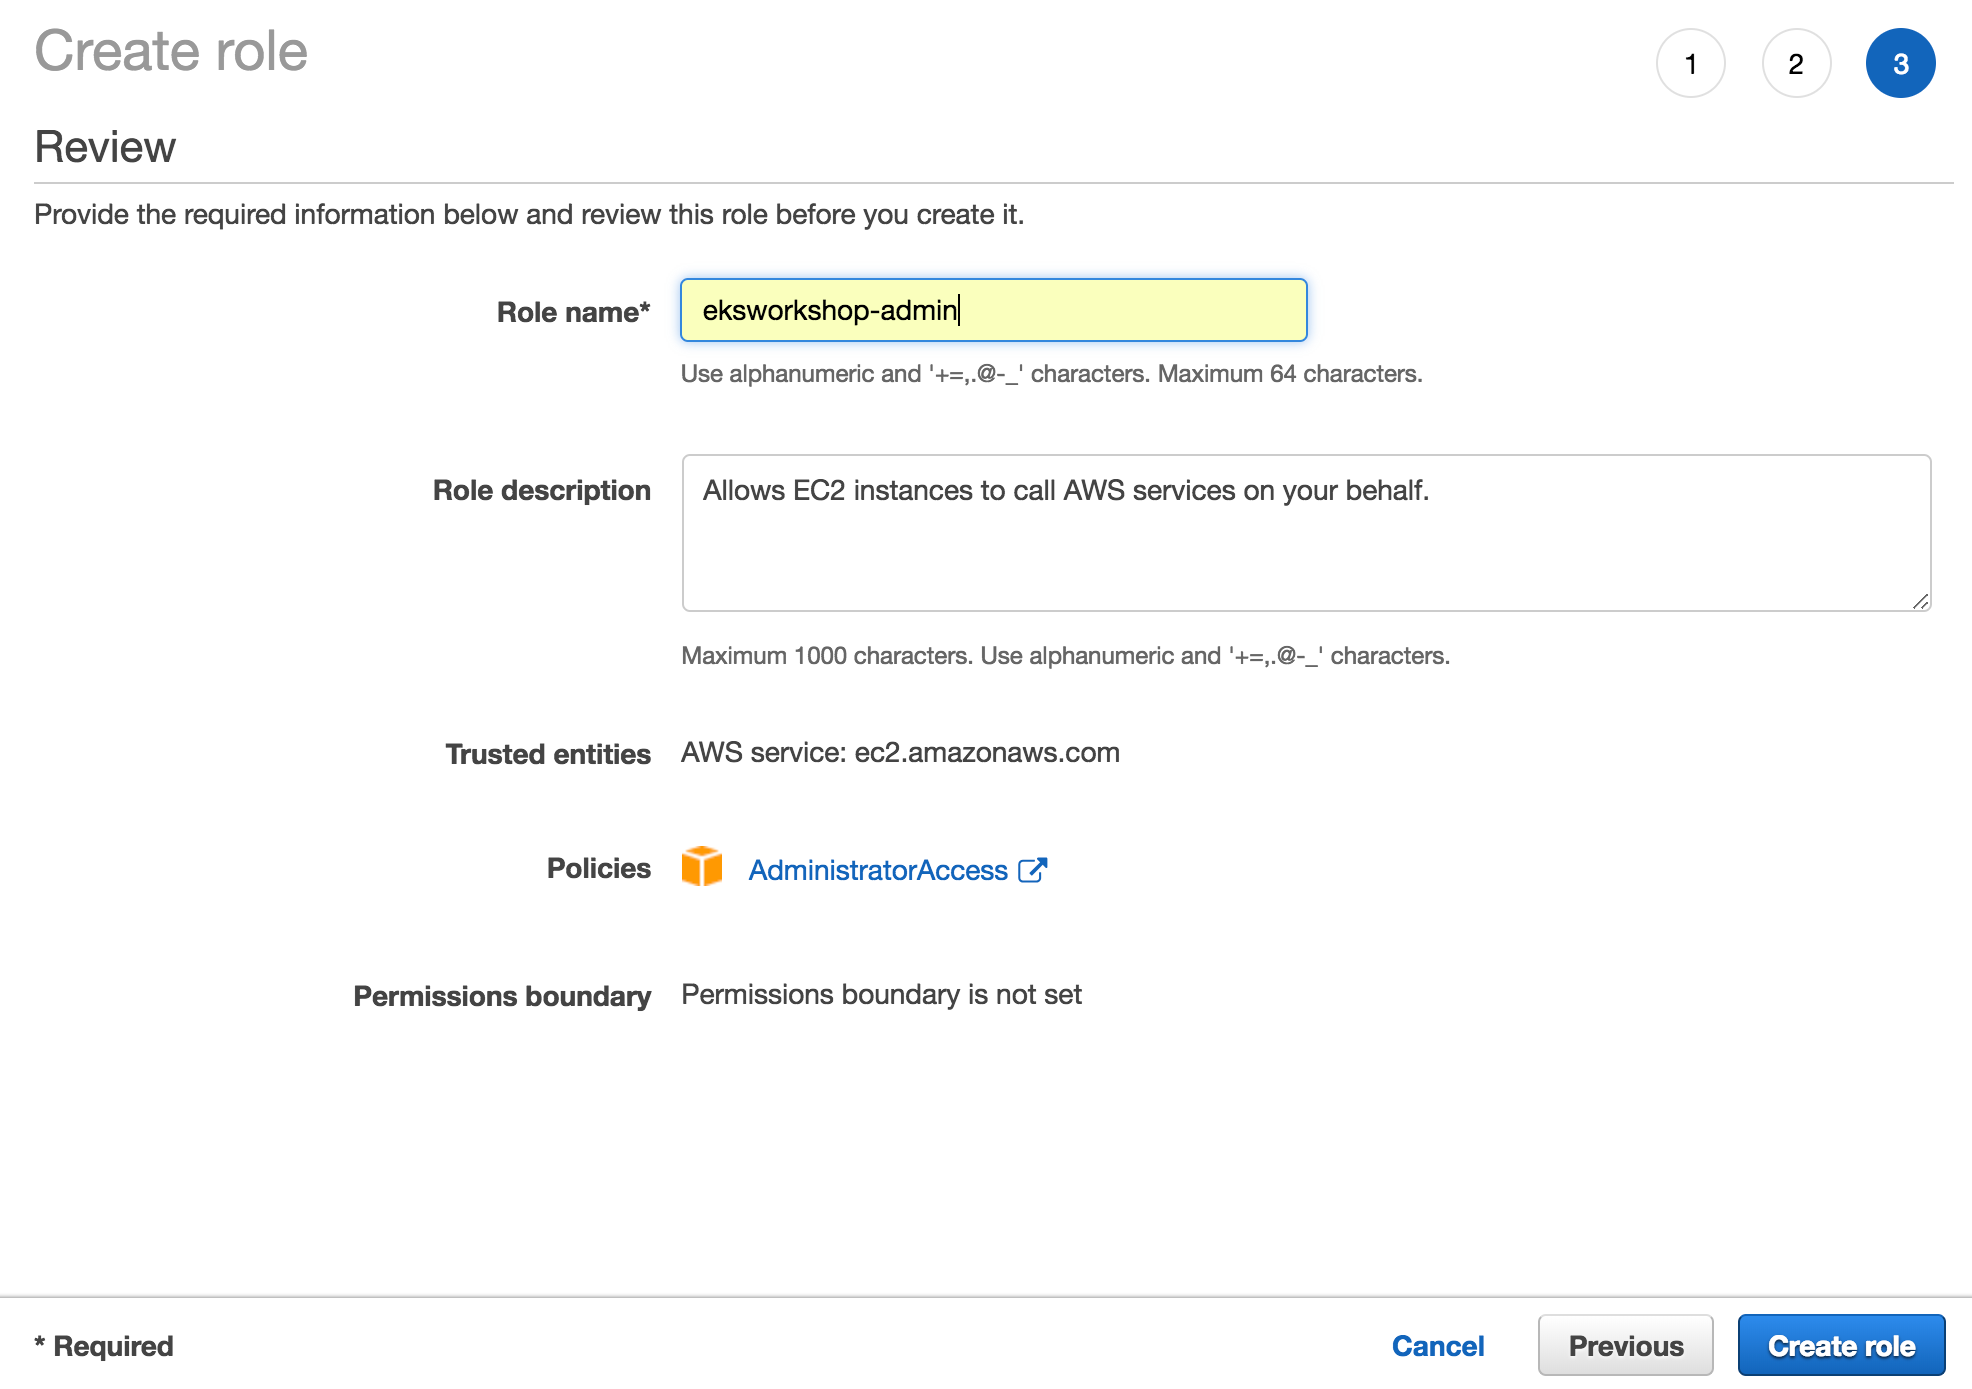
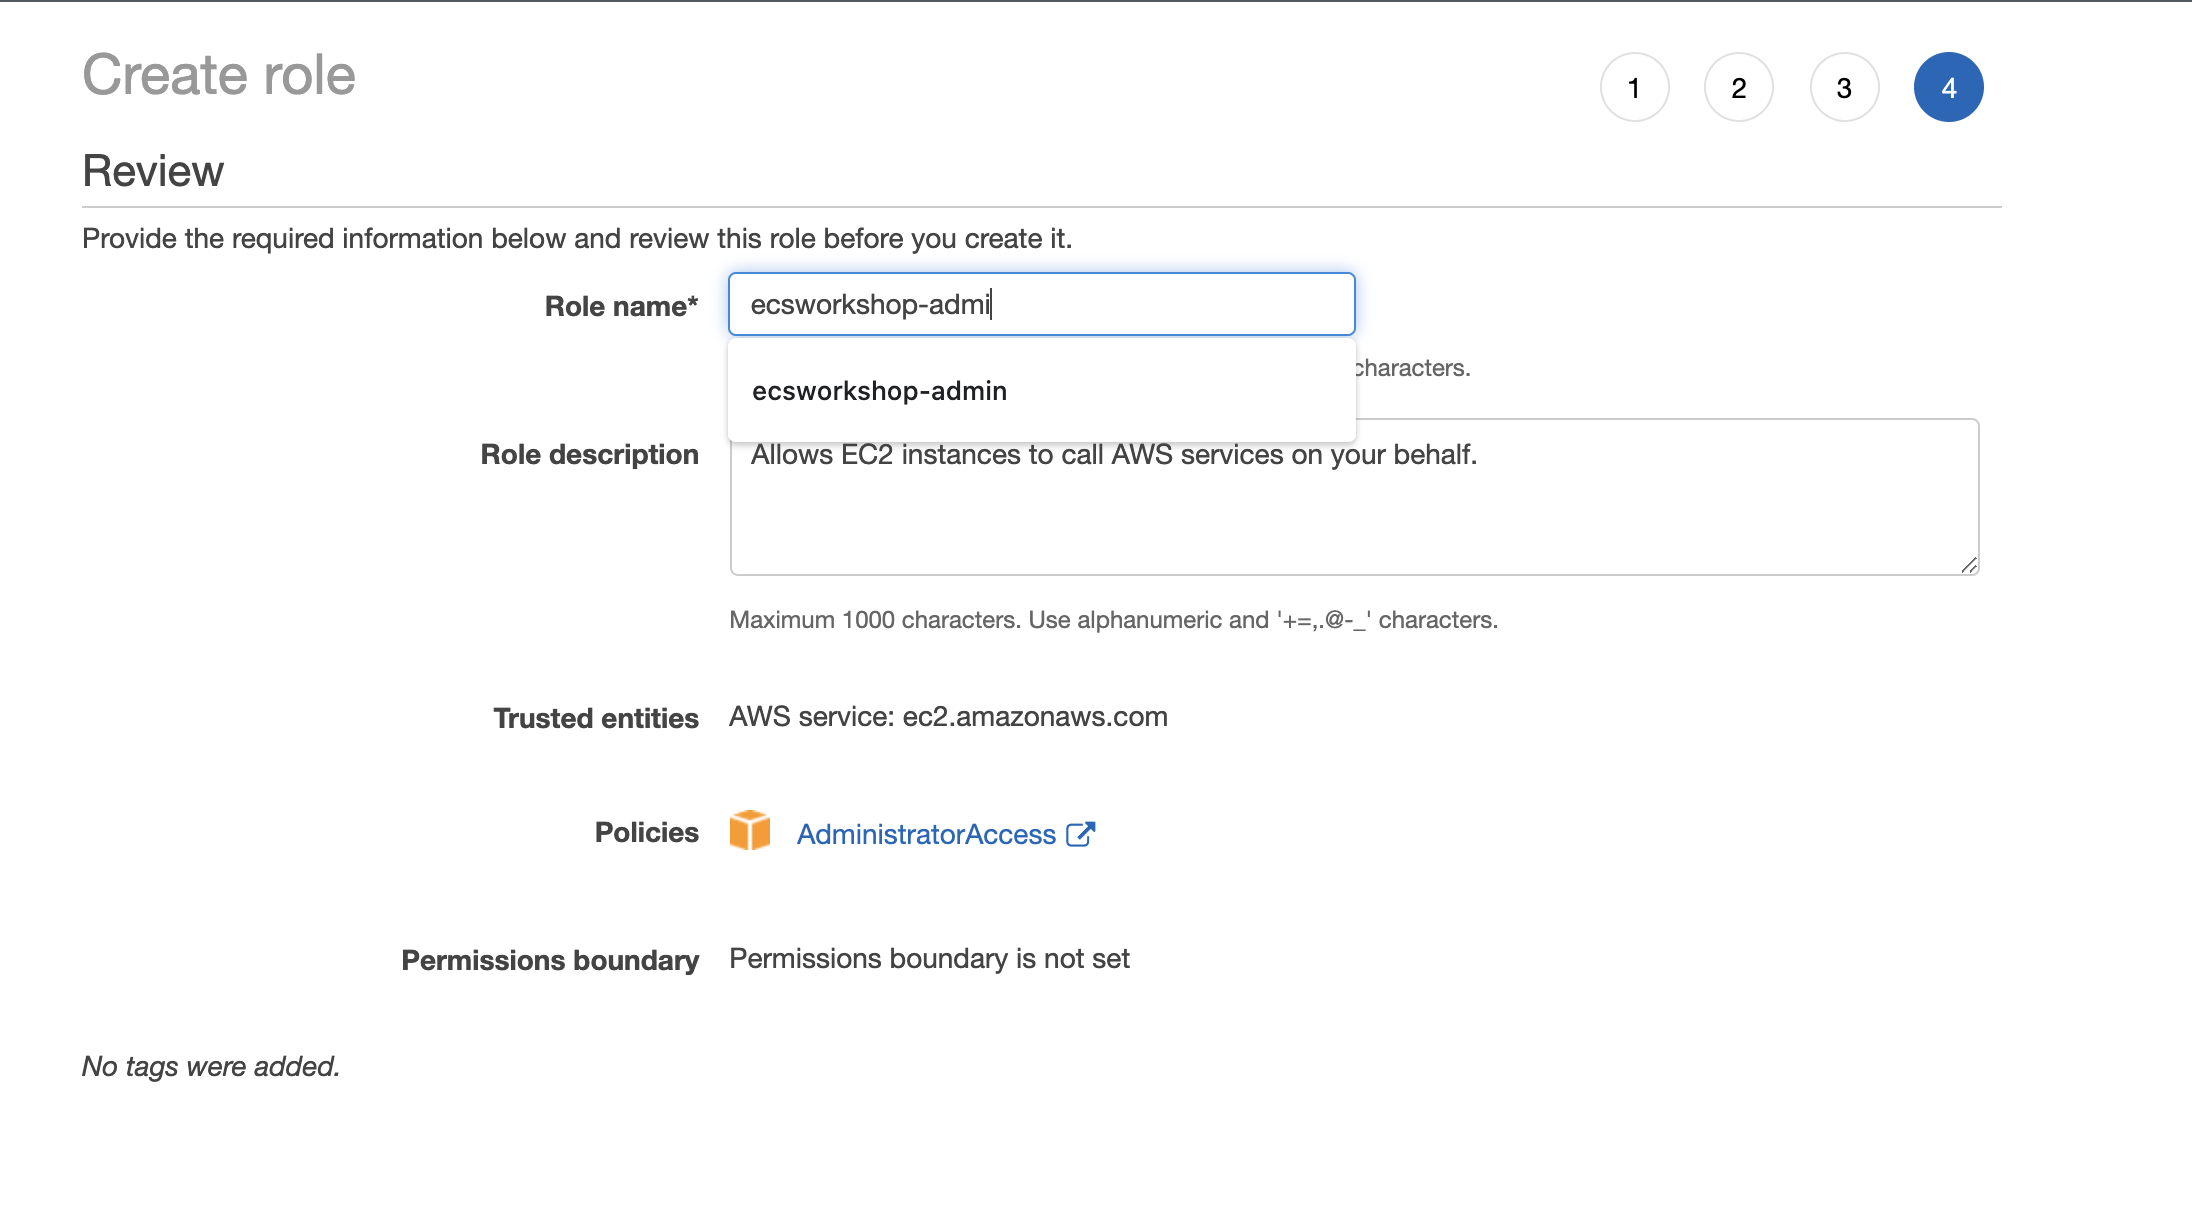
Added setup IAM role for local

diff --git a/SETUP_IAM_ROLE.md b/SETUP_IAM_ROLE.md
@@ -4,7 +4,7 @@ Please follow below steps if you are running the workshop on your own. These ste
 
 ## Create an IAM role for your Workspace
 
-1. Follow [this deep link to create an IAM role with Administrator access](https://console.aws.amazon.com/iam/home#/roles$new?step=review&commonUseCase=EC2%2BEC2&selectedUseCase=EC2&policies=arn:aws:iam::aws:policy%2FAdministratorAccess&roleName=eksworkshop-admin).
+1. Follow [this deep link to create an IAM role with Administrator access](https://console.aws.amazon.com/iam/home?#/roles$new?step=type&commonUseCase=EC2%2BEC2&selectedUseCase=EC2&policies=arn:aws:iam::aws:policy%2FAdministratorAccess&roleName=ecsworkshop-admin).
 1. Confirm that **AWS service** and **EC2** are selected, then click **Next: Permissions** to view permissions.
 1. Confirm that **AdministratorAccess** is checked, then click **Next: Tags** to assign tags.
 1. Take the defaults, and click **Next: Review** to review.
@@ -16,5 +16,5 @@ Please follow below steps if you are running the workshop on your own. These ste
 ![cloud9Role](images/cloud9-role.png)
 1. Select the instance, then choose **Actions / Security / Modify IAM Role**
 ![c9instancerole](images/c9instancerole.png)
-1. Choose **eksworkshop-admin** from the **IAM Role** drop down, and select **Save**
+1. Choose **ecsworkshop-admin** from the **IAM Role** drop down, and select **Save**
 ![c9attachrole](images/c9attachrole.png)

diff --git a/README.md b/README.md
@@ -34,6 +34,8 @@ interstitial screen similar to this one for a minute or two:
 
 ![images/wait-for-environment.png](images/wait-for-environment.png)
 
+if you are running the workshop on your own and not at AWS event, you will have to associate IAM roles to your Cloud9 instance, please follow steps [here](./SETUP_IAM_ROLE.md).
+
 Once the development environment opens up click on the settings button in the upper right corner:
 
 ![images/settings.png](images/settings.png)
